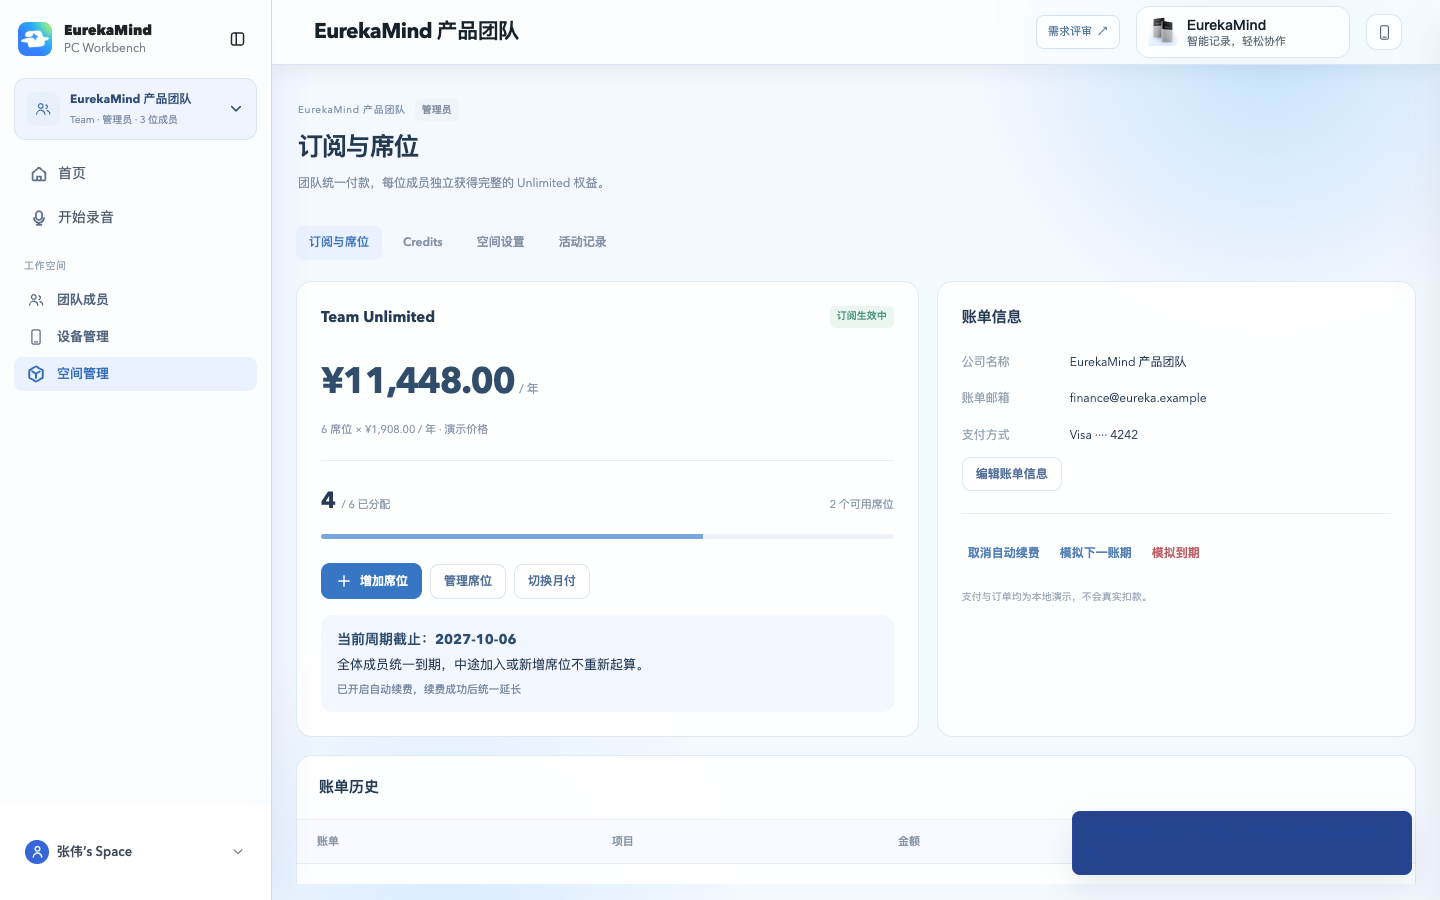
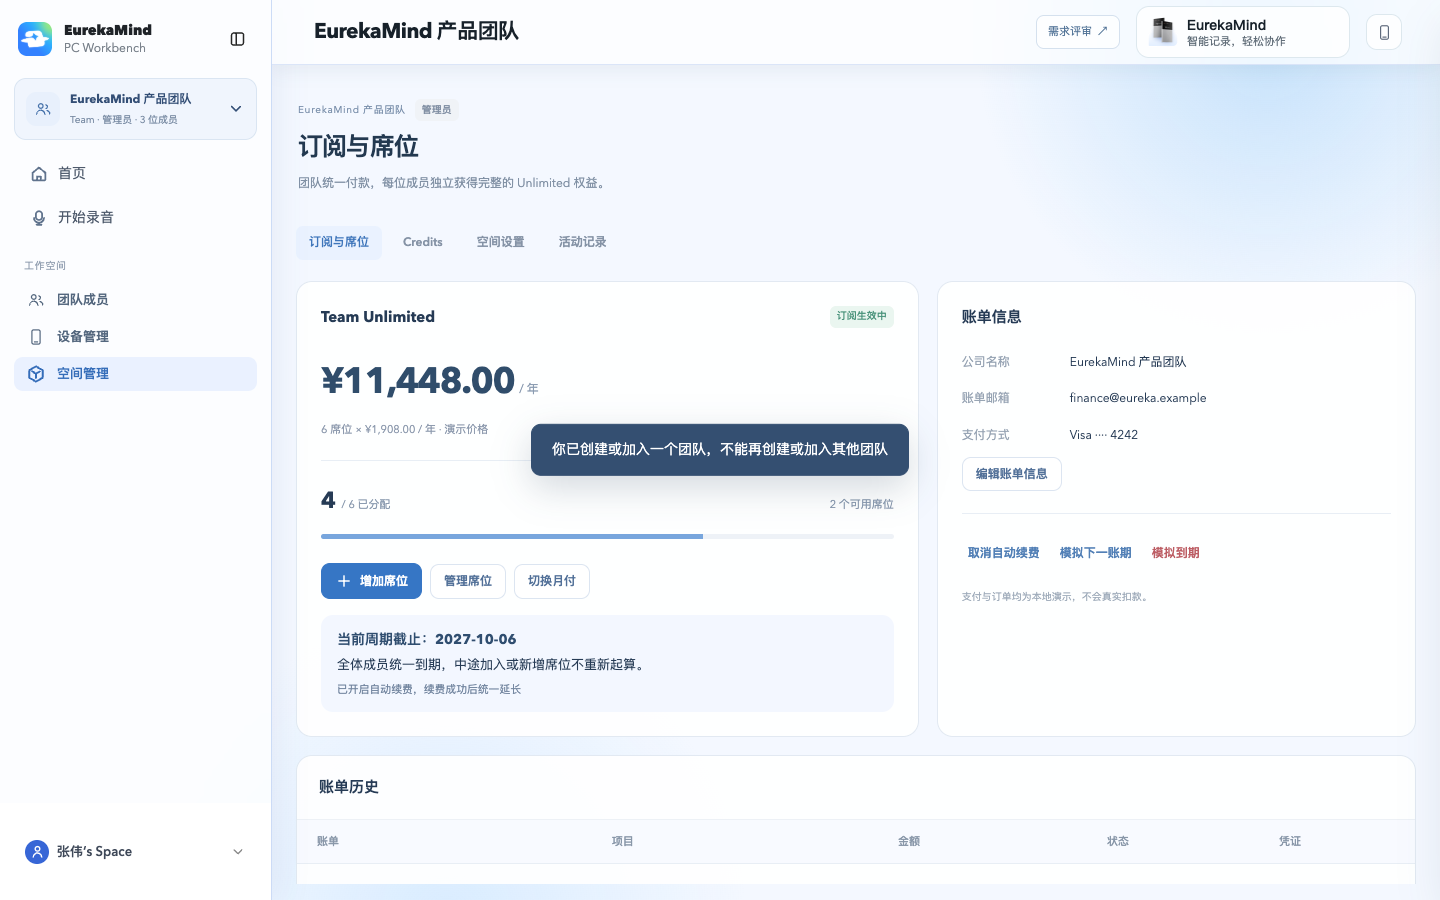
fix: center toasts and restore readable text contrast

Changed region(s): [[0.3438, 0.4667, 0.6562, 0.56], [0.7188, 0.9022, 1.0, 0.9956]]

diff --git a/src/app/workbench/toast.css b/src/app/workbench/toast.css
@@ -1,0 +1,24 @@
+/* Keep every active workbench toast consistent after the reference theme. */
+body :is(.toast, .contacts-toast, .ws-toast),
+body :is(.toast, .contacts-toast, .ws-toast).show {
+  position: fixed;
+  inset: 50% auto auto 50%;
+  transform: translate(-50%, -50%);
+  z-index: 1000;
+  box-sizing: border-box;
+  width: max-content;
+  max-width: min(480px, calc(100vw - 32px));
+  margin: 0;
+  padding: 14px 20px;
+  border: 1px solid #344f71;
+  border-radius: 10px;
+  color: #fff;
+  background: #344f71;
+  box-shadow: 0 12px 36px #21375433;
+  font-size: 14px;
+  line-height: 1.6;
+  text-align: center;
+  white-space: pre-wrap;
+  overflow-wrap: anywhere;
+  pointer-events: none;
+}

diff --git a/src/prototype/prd/style.css b/src/prototype/prd/style.css
@@ -35,3 +35,6 @@
 .flow-scroll{border-radius:7px}
 @media(max-width:600px){.chapter-header{flex-wrap:wrap}.chapter h2{font-size:19px}.rule-block>h3{font-size:14px}}
 @media print{.flow-svg{min-width:0}.prose .flow-figure,#journeys .flow-figure{max-width:155mm}}
+
+/* Toasts share the workbench placement and contrast. */
+body #toast{inset:50% auto auto 50%;transform:translate(-50%,-50%);z-index:1000;width:max-content;max-width:min(480px,calc(100vw - 32px));margin:0;padding:14px 20px;border:1px solid #344f71;border-radius:10px;color:#fff;background:#344f71;box-shadow:0 12px 36px #21375433;font-size:14px;line-height:1.6;text-align:center;white-space:pre-wrap;overflow-wrap:anywhere;pointer-events:none}

diff --git a/src/prototype/prd/index.html b/src/prototype/prd/index.html
@@ -4,7 +4,7 @@
 <meta charset="utf-8"><meta name="viewport" content="width=device-width,initial-scale=1">
 <title>EurekaMind · 产品需求文档</title>
 <meta name="description" content="EurekaMind 个人与团队工作空间产品需求文档：功能、交互、权限、计费、验收与评审。">
-<link rel="stylesheet" href="style.css?v=prd-outline-39">
+<link rel="stylesheet" href="style.css?v=prd-toast-center-40">
 <script src="flow.js?v=prd-outline-39" defer></script>
 <script src="reader.js?v=prd-outline-39" defer></script>
 <script src="app.js?v=prd-outline-39" defer></script>

diff --git a/src/app/workbench/page.tsx b/src/app/workbench/page.tsx
@@ -1,5 +1,6 @@
 import { Application } from "@/features/application/application";
 import "@/features/reference/prototype.css";
+import "./toast.css";
 export default function WorkbenchPage() {
   return <Application />;
 }
